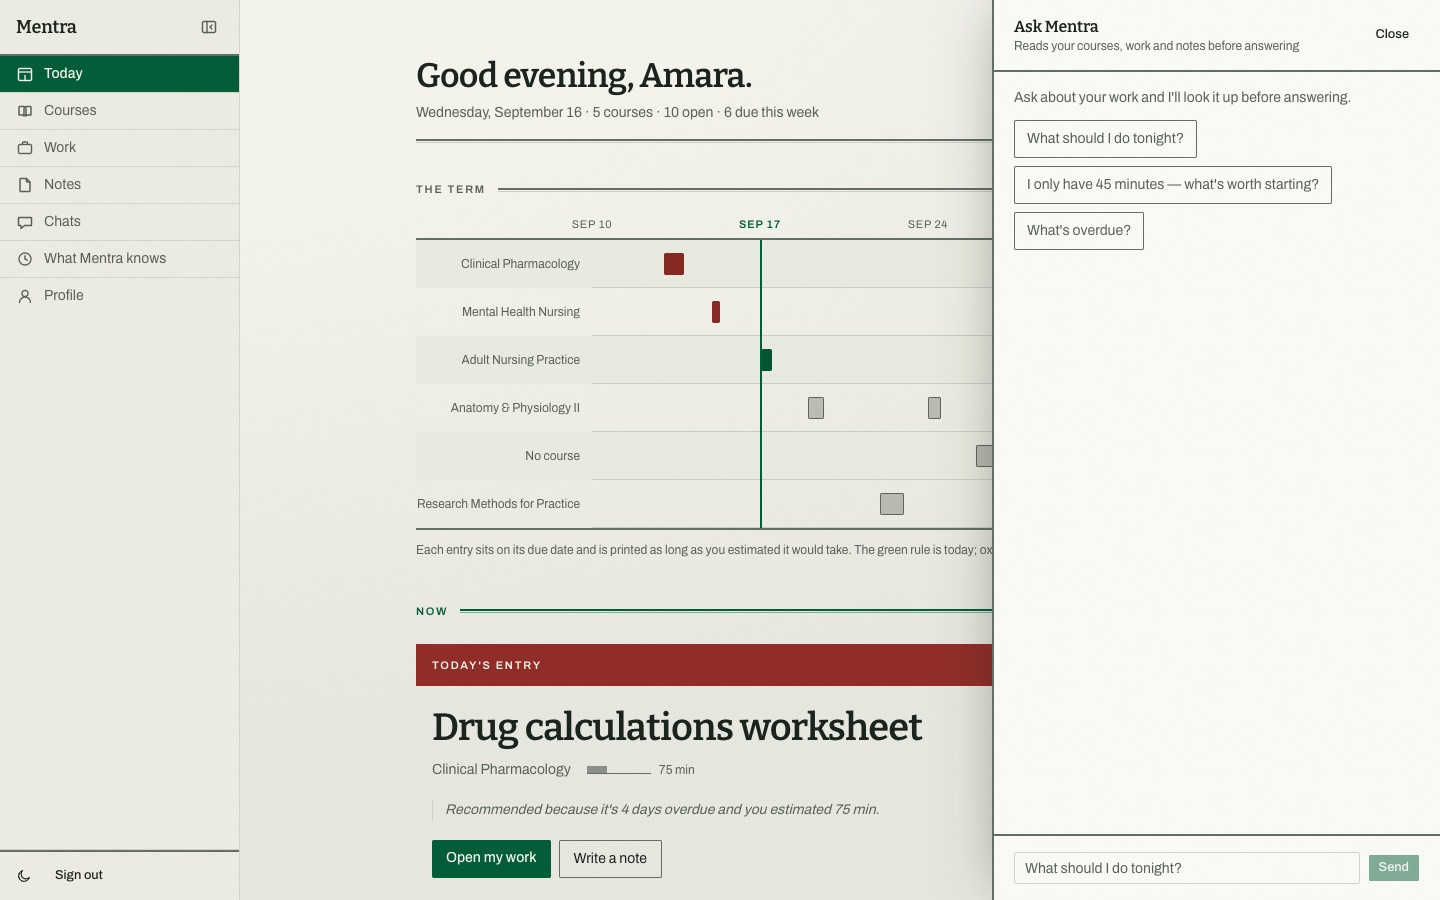
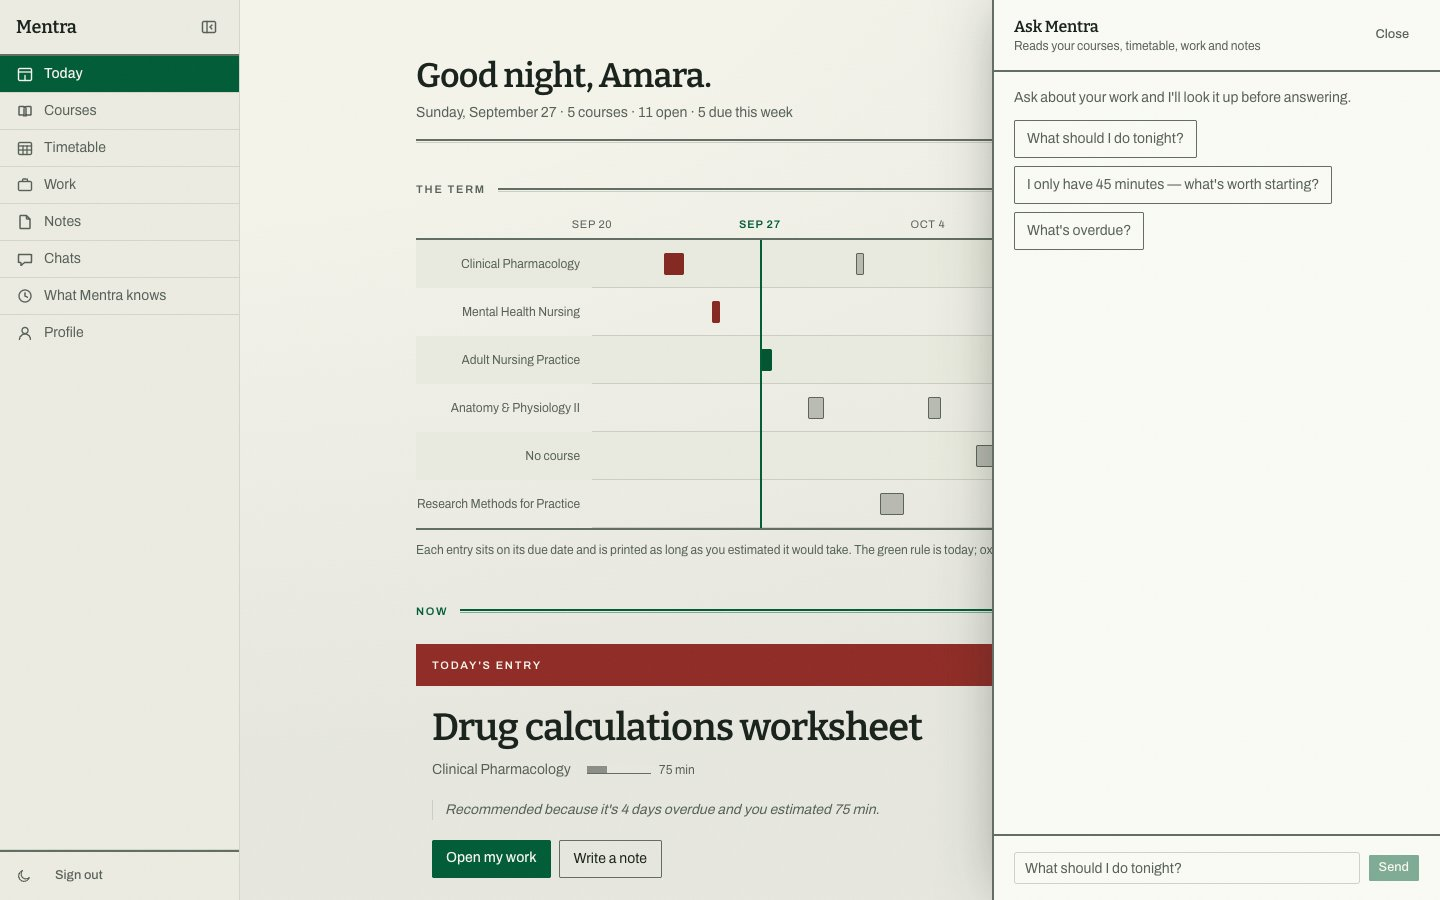
docs: retake the screenshots that still showed the old sidebar
Work, Notes, What Mentra knows, Profile and the assistant panel predated the
Timetable entry; the Timetable shot shows the new block style. The assistant
panel's subtitle now says it reads the timetable too.

diff --git a/src/components/assistant/assistant-panel.tsx b/src/components/assistant/assistant-panel.tsx
@@ -74,7 +74,7 @@ export function AssistantPanel() {
               Ask Mentra
             </h2>
             <p className="text-xs text-muted-foreground">
-              Reads your courses, work and notes before answering
+              Reads your courses, timetable, work and notes
             </p>
           </div>
           <Button
